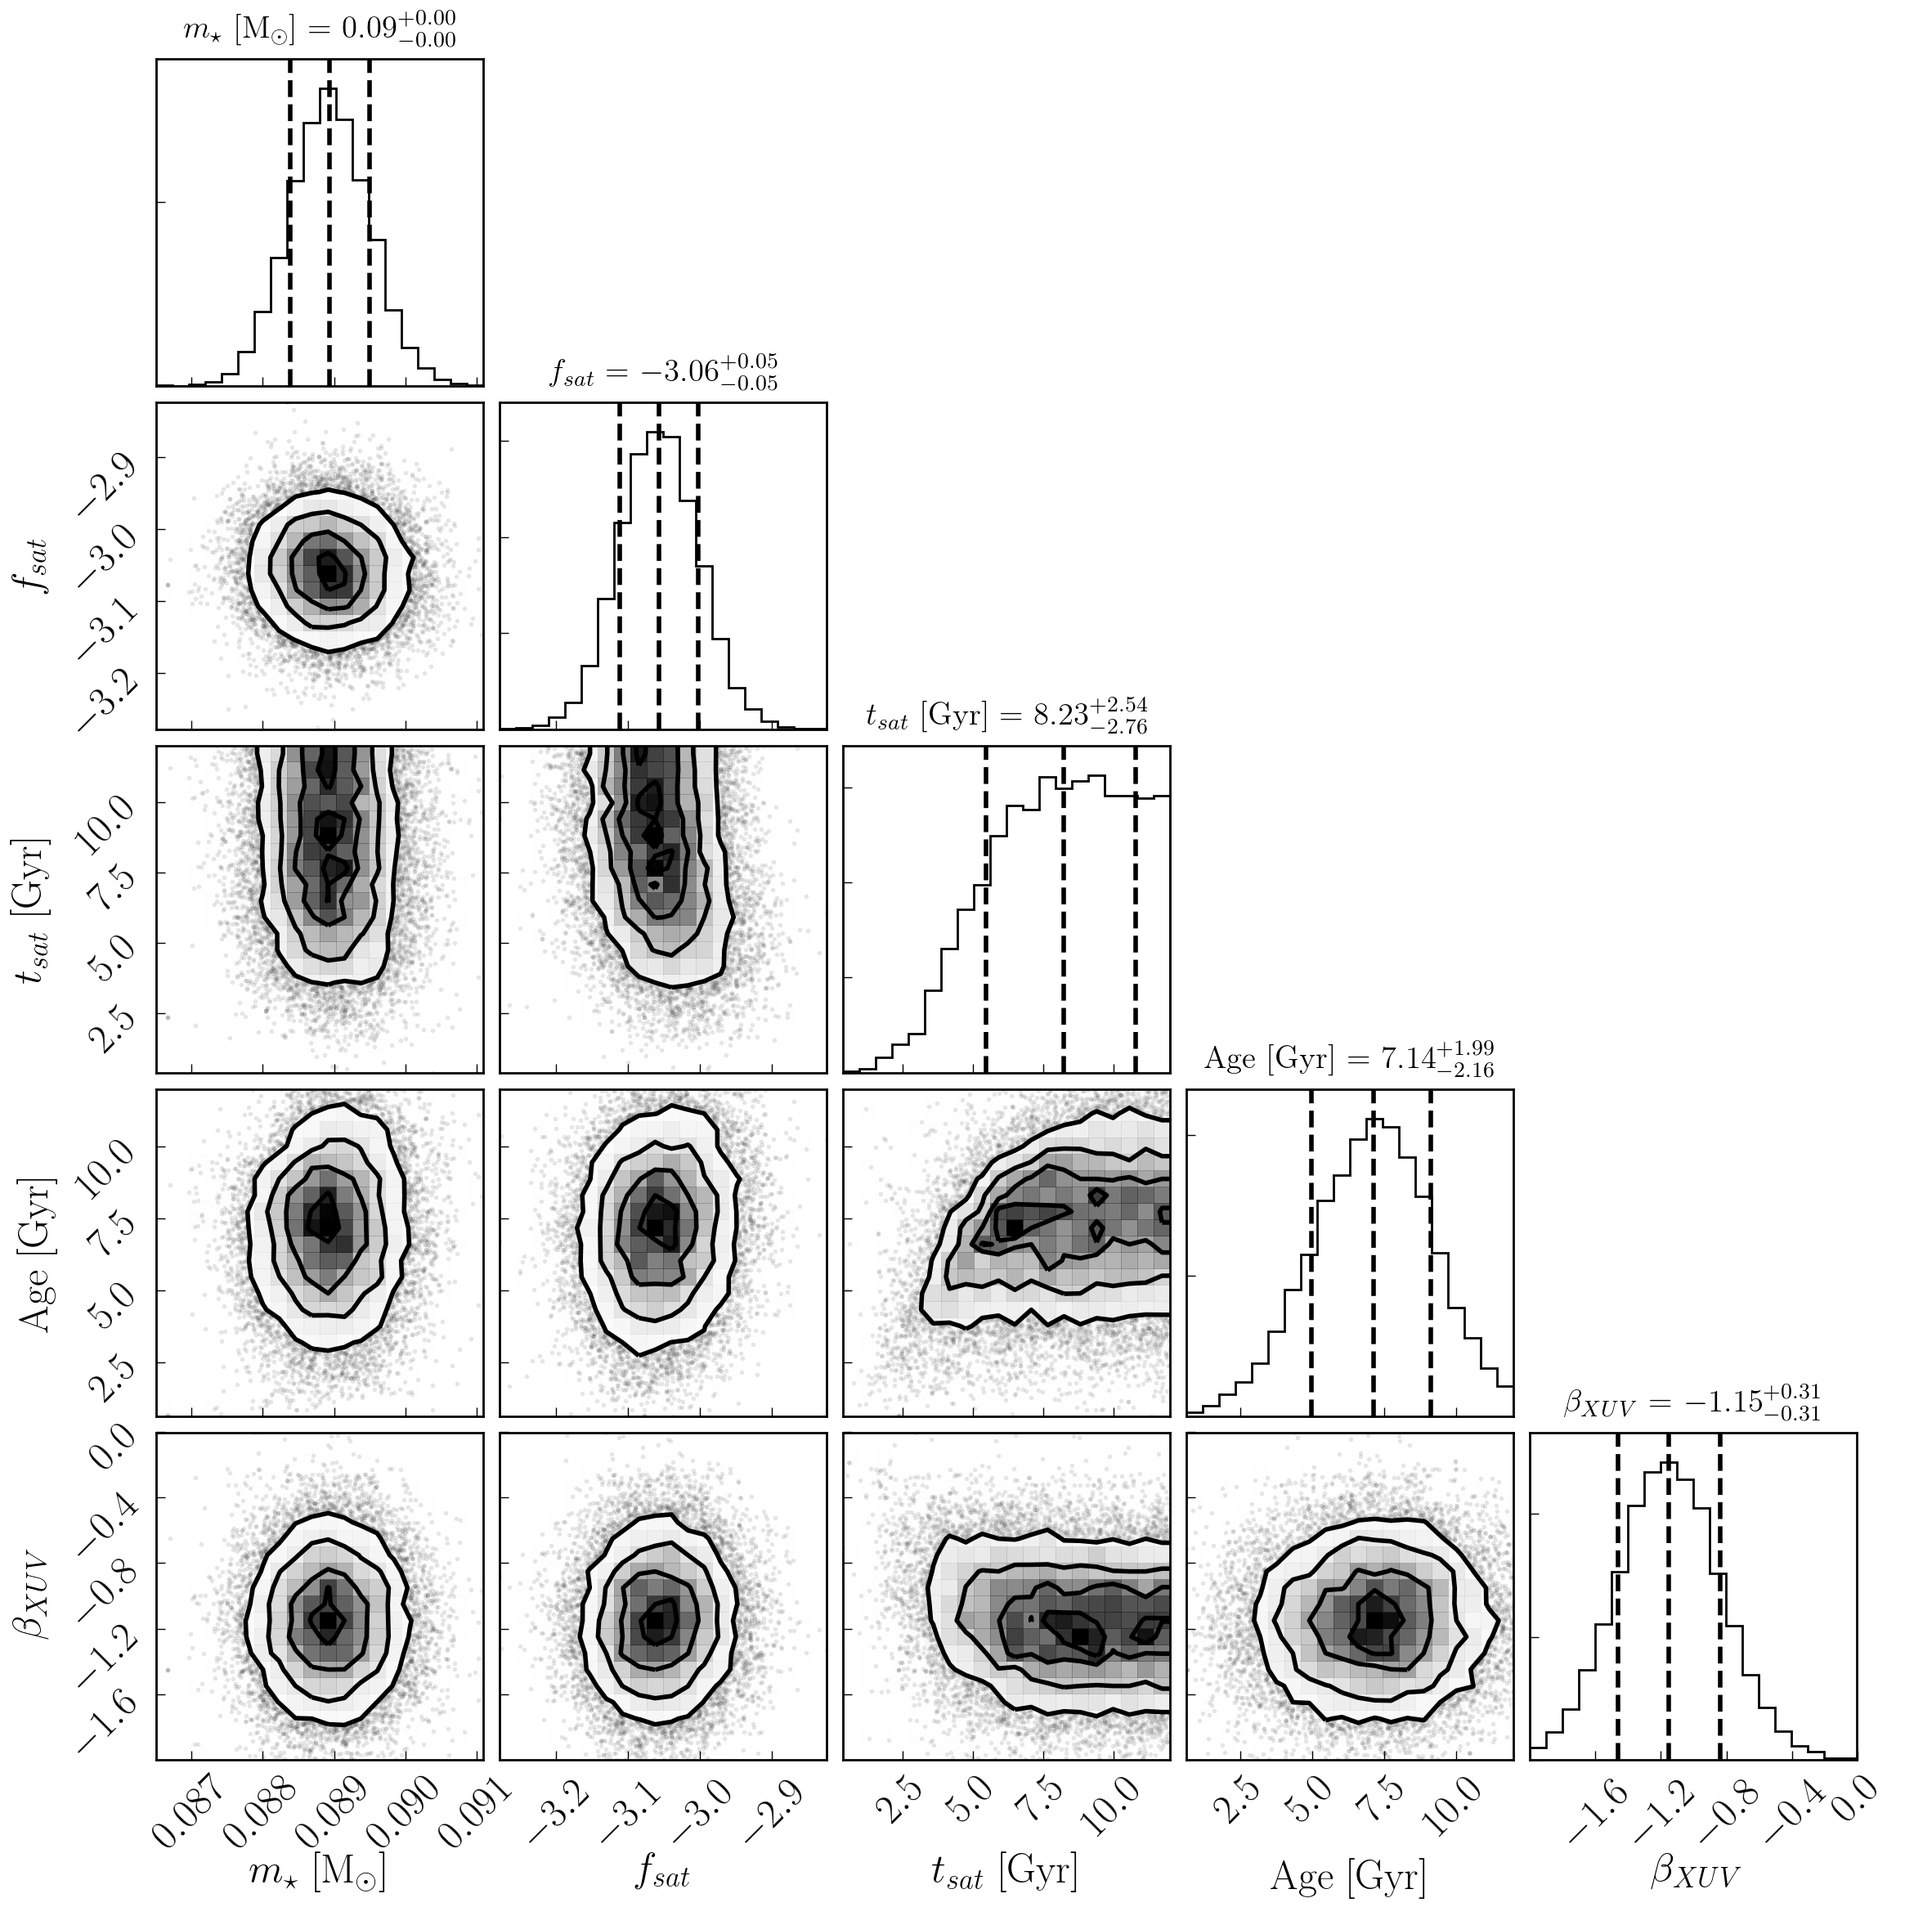
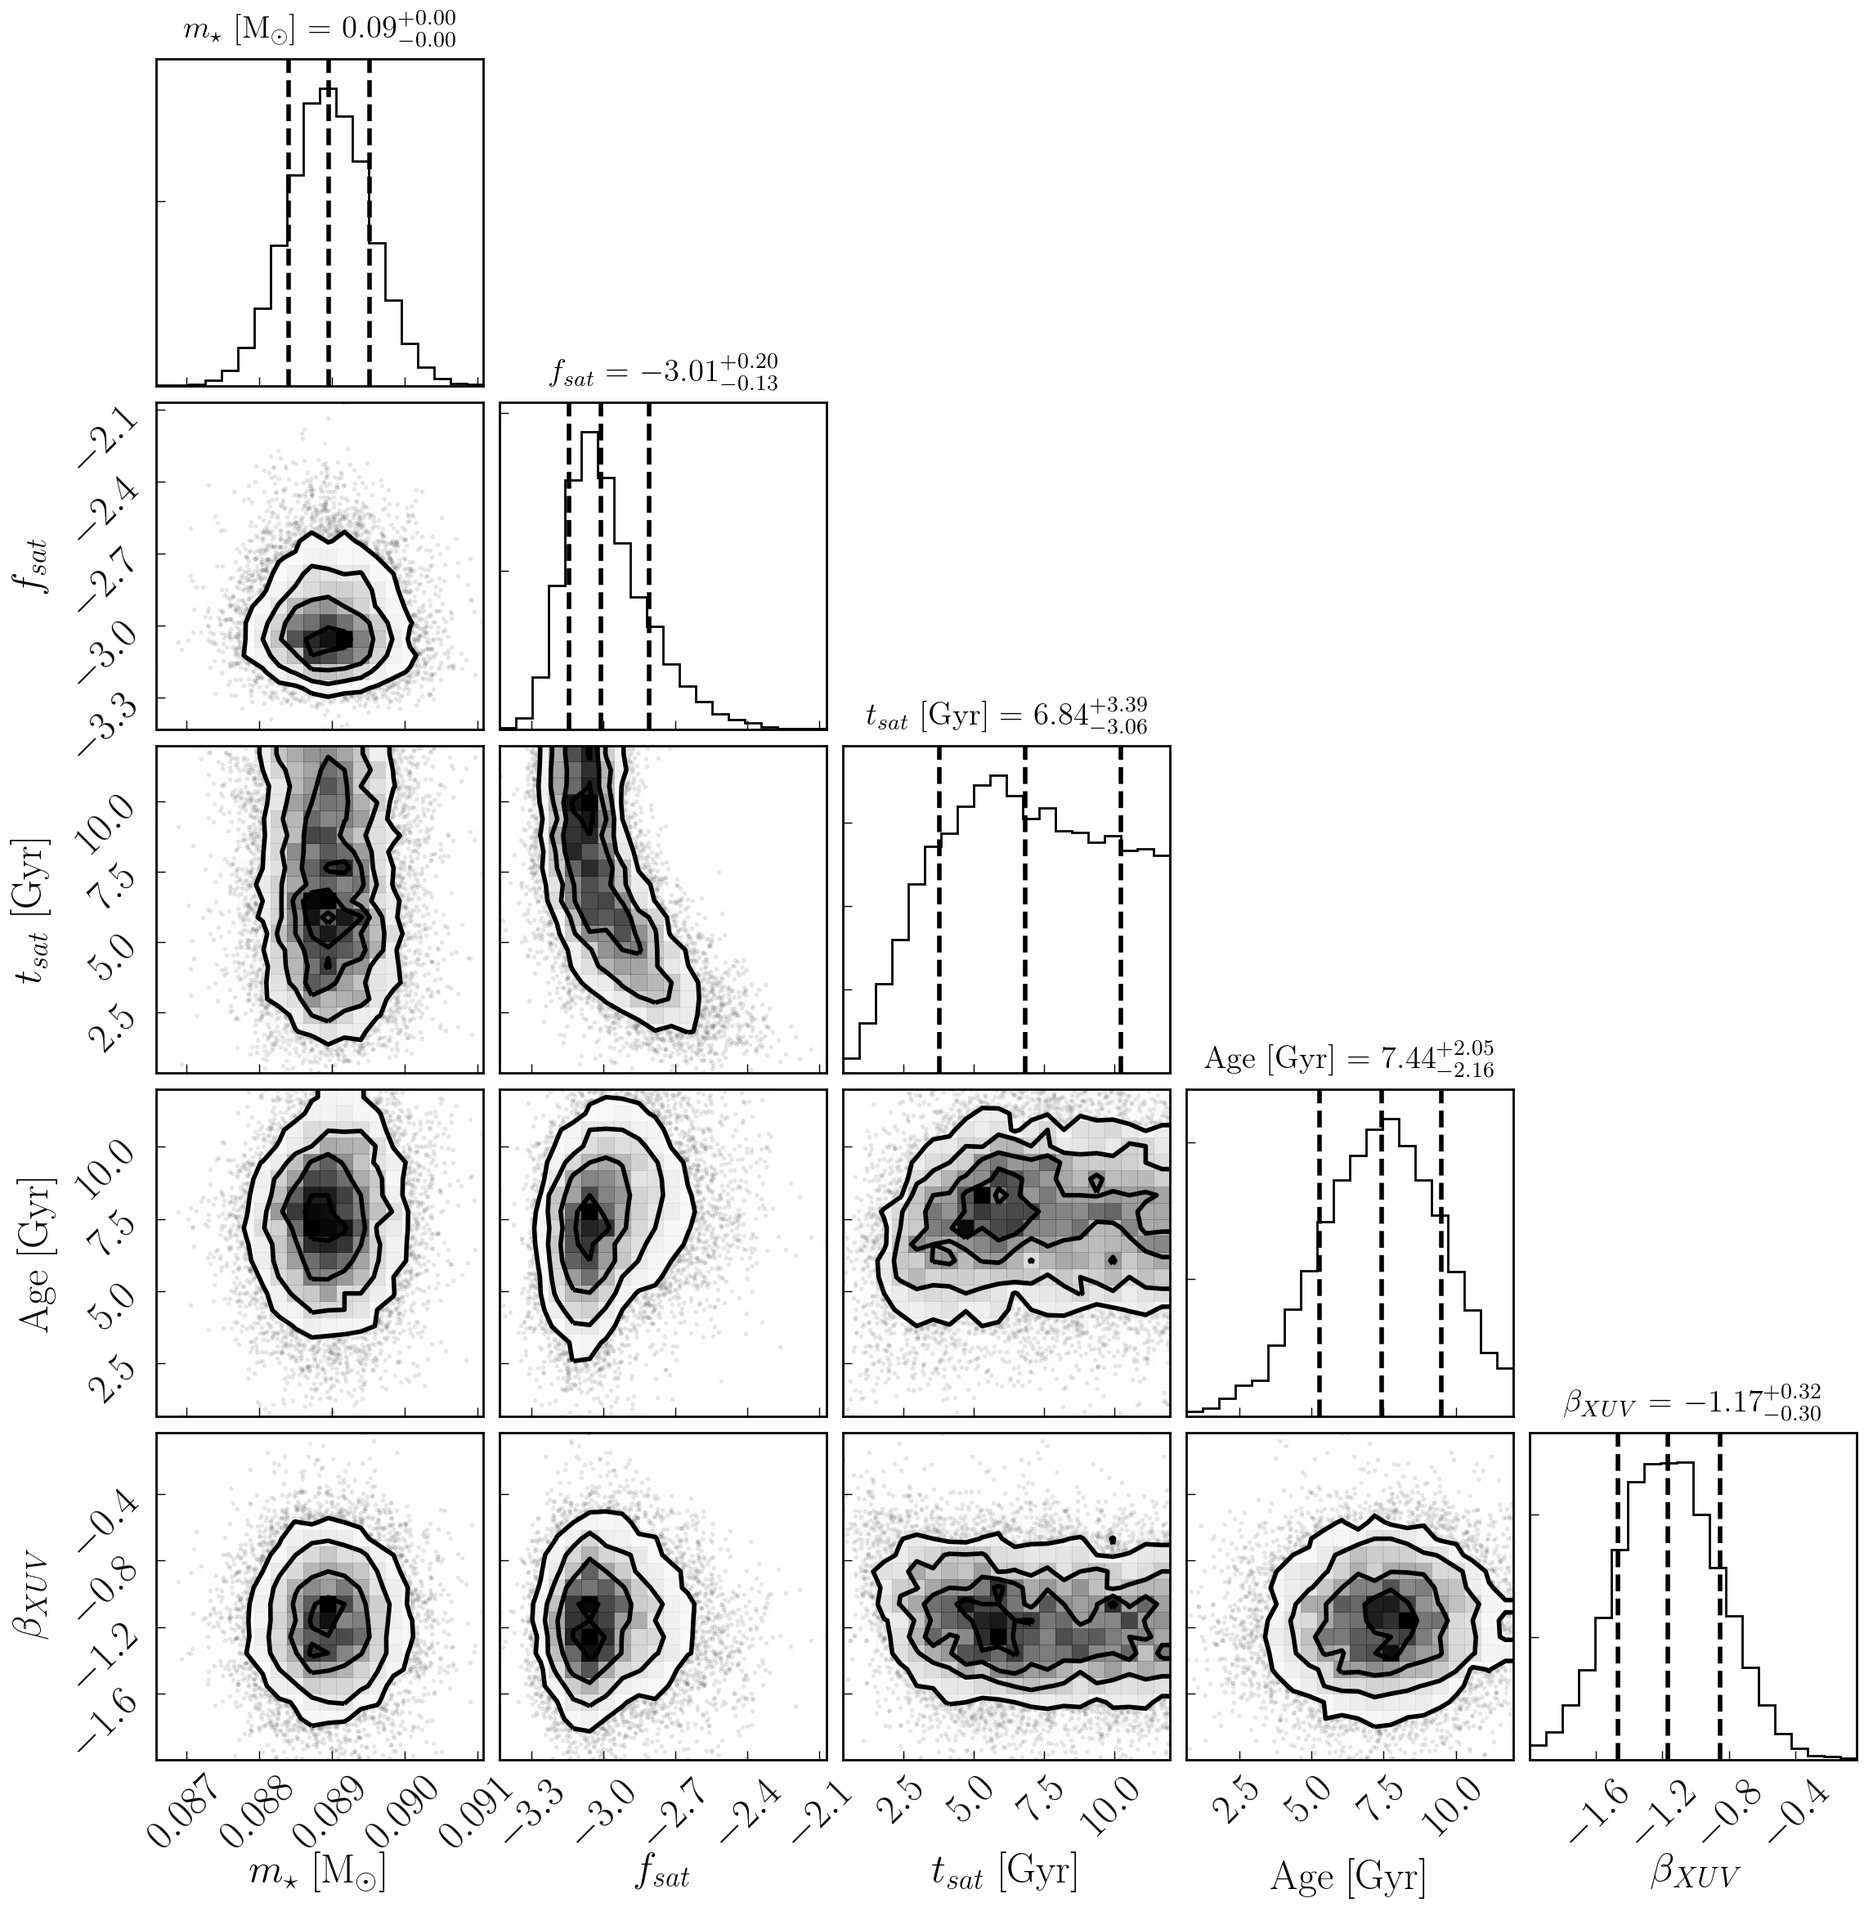
built approxposterior run script

diff --git a/Scripts/runAPMCMCTrappist1.py b/Scripts/runAPMCMCTrappist1.py
@@ -1,14 +1,18 @@
 #!/usr/bin/env python
 # -*- coding: utf-8 -*-
 """
-Trappist1 b-h approxposterior run
+TRAPPIST-1 approxposterior run script.
+
+@author: David P. Fleming, 2019
+@email: dflemin3 (at) uw (dot) edu
+
 """
 
 import os
 from trappist import pool
 from trappist import trappist1, mcmcUtils
-from approxposterior import approx
-import emcee, corner
+from approxposterior import approx, utility, gpUtils
+import emcee
 import numpy as np
 import george
 
@@ -24,12 +28,12 @@ nGPRestarts = 20                 # Number of times to restart GP hyperparameter 
 nMinObjRestarts = 10             # Number of times to restart objective fn minimization
 optGPEveryN = 25                 # Optimize GP hyperparameters even this many iterations
 nKLSamples = int(1.0e7)          # Number of samples from posterior to use to calculate KL-Divergence
-bounds = ((0.1, 0.15),
-          (-5.0, -2.0),
-          (-0.3, 1.0),
-          (1.0e-3, 8.0),
-          (-2.0, 0.0))          # Prior bounds
-algorithm = "bape"              # Use the Kandasamy et al. (2015) formalism
+bounds = ((0.07, 0.11),          # Prior bounds
+          (-5.0, -1.0),
+          (0.1, 12.0),
+          (0.1, 12.0),
+          (-2.0, 0.0))
+algorithm = "bape"              # Use the Kandasamy et al. (2015) BAPE formalism
 
 # Set RNG seed
 np.random.seed(seed)
@@ -52,14 +56,14 @@ with open(os.path.join(PATH, "vpl.in"), 'r') as f:
     vpl_in = f.read()
     kwargs["VPLIN"] = vpl_in
 
-# Randomly sample initial conditions from the prior
+# Generate initial training set using latin hypercube sampling over parameter bounds
 # Evaluate forward model log likelihood + lnprior for each theta
 if not os.path.exists("apFModelCache.npz"):
     y = np.zeros(m0)
-    theta = np.zeros((m0, ndim))
+    theta = utility.latinHypercubeSampling(m0, bounds, criterion="maximin")
     for ii in range(m0):
         theta[ii,:] = trappist1.samplePriorTRAPPIST1()
-        y[ii] = ehimc.LnLike(theta[ii], **kwargs)[0] + trappist1.LnPriorTRAPPIST1(theta[ii], **kwargs)
+        y[ii] = mcmcUtils.LnLike(theta[ii], **kwargs)[0] + trappist1.LnPriorTRAPPIST1(theta[ii], **kwargs)
 
 else:
     print("Loading in cached simulations...")
@@ -69,27 +73,15 @@ else:
 
 ### Initialize GP ###
 
-# Guess initial metric, or scale length of the covariances in loglikelihood space
-initialMetric = [5.0*len(theta)**(1.0/theta.shape[-1]) for _ in range(theta.shape[-1])]
-
-# Create kernel: We'll model coverianges in loglikelihood space using a
-# Squared Expoential Kernel as we anticipate Gaussian-ish posterior
-# distributions in our 2-dimensional parameter space
-kernel = george.kernels.ExpSquaredKernel(initialMetric, ndim=ndim)
-
-# Guess initial mean function
-mean = np.mean(y)
-
-# Create GP and compute the kernel
-gp = george.GP(kernel=kernel, fit_mean=True, mean=mean)
-gp.compute(theta)
+# Use ExpSquared kernel, the approxposterior default option
+gp = gpUtils.defaultGP(theta, y)
 
 # Initialize approxposterior
 ap = approx.ApproxPosterior(theta=theta,
                             y=y,
                             gp=gp,
                             lnprior=trappist1.LnPriorTRAPPIST1,
-                            lnlike=ehimc.LnLike,
+                            lnlike=mcmcUtils.LnLike,
                             priorSample=trappist1.samplePriorTRAPPIST1,
                             algorithm=algorithm)
 
@@ -99,16 +91,4 @@ ap.run(m=m, nmax=nmax, Dmax=Dmax, kmax=kmax, bounds=bounds,  estBurnin=True,
        samplerKwargs=samplerKwargs, verbose=True, gmmKwargs=gmmKwargs,
        nGPRestarts=nGPRestarts, nMinObjRestarts=nMinObjRestarts,
        optGPEveryN=optGPEveryN, seed=seed, cache=True, **kwargs)
-
-# Check out the final posterior distribution!
-
-# Load in chain from last iteration
-reader = emcee.backends.HDFBackend(ap.backends[-1], read_only=True)
-samples = reader.get_chain(discard=ap.iburns[-1], flat=True, thin=ap.ithins[-1])
-
-# Corner plot!
-fig = corner.corner(samples, quantiles=[0.16, 0.5, 0.84], show_titles=True,
-                    scale_hist=True, plot_contours=True)
-
-fig.savefig("apFinalPosterior.png", bbox_inches="tight") # Uncomment to save
 # Done!
